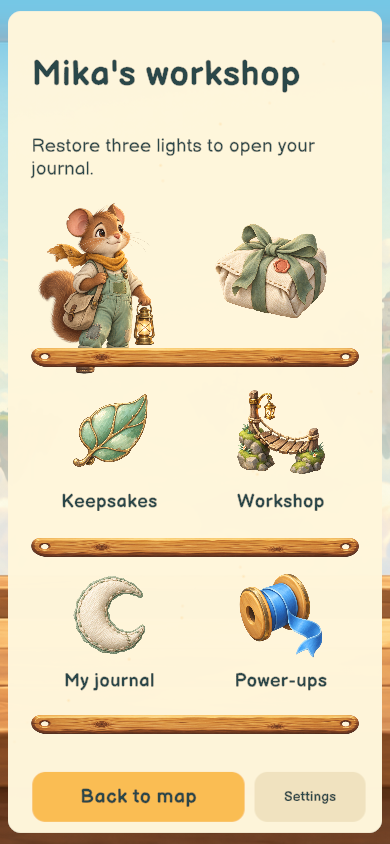
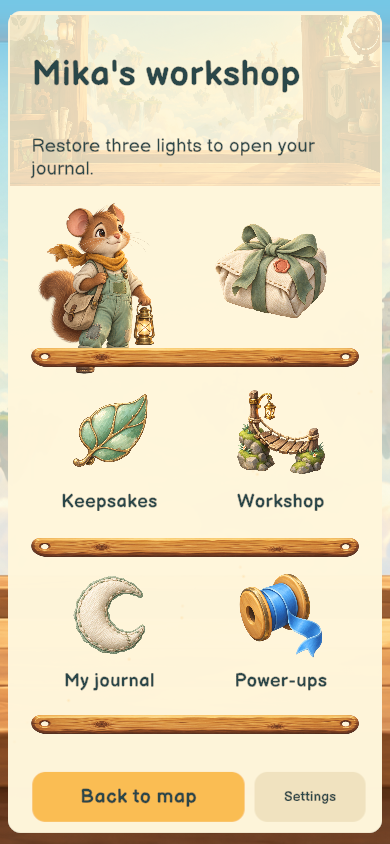
Add illustrated workshop headers to shared menus

Changed region(s): [[0.0, 0.0, 0.9846, 0.2464]]

diff --git a/CascadeUnity/Assets/_Cascade/Editor/Playable/PolishCapture.cs b/CascadeUnity/Assets/_Cascade/Editor/Playable/PolishCapture.cs
@@ -17,6 +17,7 @@ namespace Cascade.Editor.Playable
   static void Redraw(CascadeGame g)=>typeof(CascadeGame).GetMethod("DrawMenu",Flags).Invoke(g,null);
   public static void Run(){if(!EditorApplication.isPlaying||EditorUtility.scriptCompilationFailed||EditorApplication.isCompiling)throw new InvalidOperationException("Compiled Play Mode required");UnityEngine.Object.FindFirstObjectByType<CascadeGame>().StartCoroutine(Capture());}
   public static void FinishPass(){if(!EditorApplication.isPlaying||EditorUtility.scriptCompilationFailed||EditorApplication.isCompiling)throw new InvalidOperationException("Compiled Play Mode required");UnityEngine.Object.FindFirstObjectByType<CascadeGame>().StartCoroutine(FinishShots());}
+  public static void MenuHeaderCheck(){if(!EditorApplication.isPlaying||EditorUtility.scriptCompilationFailed||EditorApplication.isCompiling)throw new InvalidOperationException("Compiled Play Mode required");UnityEngine.Object.FindFirstObjectByType<CascadeGame>().StartCoroutine(HeaderShots());}
   public static void VerifyOneSwap()
   {
    var g=UnityEngine.Object.FindFirstObjectByType<CascadeGame>();Field(g,"persistenceReady",false);g.LoadNode("C13");g.ShowGame();g.SendMessage("OnApplicationFocus",true);g.Interaction.SetSuspended(false);
@@ -86,6 +87,7 @@ namespace Cascade.Editor.Playable
    }finally{scaler.enabled=false;camera.targetTexture=previous;scaler.enabled=true;RenderTexture.active=active;g.RefreshLayout();UnityEngine.Application.runInBackground=background;UnityEngine.Object.DestroyImmediate(pixels);rt.Release();UnityEngine.Object.DestroyImmediate(rt);}
   }
   static IEnumerator Shot(string name,int width=390,int height=844){yield return new WaitForSecondsRealtime(.18f);yield return PlayableCapture.CaptureSettled("Polish",name+".png",width,height);}
+  static IEnumerator HeaderShots(){var g=UnityEngine.Object.FindFirstObjectByType<CascadeGame>();Field(g,"persistenceReady",false);g.SetUiLocale("en");g.ShowSettings();yield return Shot("finish-settings");Screen(g,GameScreen.Pause);yield return Shot("finish-pause");g.ShowTravelBag();yield return Shot("finish-bag");Debug.Log("CASCADE illustrated menu header captured");}
   static IEnumerator FinishShots()
   {
    var g=UnityEngine.Object.FindFirstObjectByType<CascadeGame>();Field(g,"persistenceReady",false);g.Feedback.SoundEnabled=g.Feedback.MusicEnabled=false;g.ReducedMotion=false;g.SetUiLocale("en");

diff --git a/CascadeUnity/Assets/_Cascade/Presentation/CascadeGame.Flow.cs b/CascadeUnity/Assets/_Cascade/Presentation/CascadeGame.Flow.cs
@@ -206,6 +206,12 @@ namespace Cascade.Presentation
             foreach(Transform child in menuRoot){ child.gameObject.SetActive(false); Destroy(child.gameObject); }
             var wash=Rect("Warm paper",menuRoot,new Vector2(.018f,.012f),new Vector2(.982f,.988f));menuWash=Background(wash,new Color(1,.96f,.84f,.965f),true);menuWash.sprite=art.panel;menuWash.type=Image.Type.Sliced;
             if(CurrentScreen!=GameScreen.Home&&CurrentScreen!=GameScreen.Dialogue){
+                var windowTexture=Resources.Load<Texture2D>("CascadeArt/Craft/WorkshopRoom");
+                if(windowTexture!=null){
+                    var window=Rect("Painted workshop window",menuRoot,new Vector2(.025f,.78f),new Vector2(.975f,.982f)).gameObject.AddComponent<RawImage>();
+                    window.texture=windowTexture;window.uvRect=new Rect(0,.18f,1,.66f);window.raycastTarget=false;
+                    Background(Rect("Quiet header veil",menuRoot,new Vector2(.025f,.78f),new Vector2(.975f,.982f)),new Color(1,.96f,.84f,.69f),false);
+                }
                 var motes=Rect("Window light and drifting dust",menuRoot,new Vector2(.035f,.03f),new Vector2(.965f,.97f)).gameObject.AddComponent<WorldWeatherGraphic>();
                 motes.InitializeRegion(this,machine.LivingWorld.Zone);motes.color=new Color(1,.79f,.44f,.20f);
             }

diff --git a/TASKS.md b/TASKS.md
@@ -1,6 +1,6 @@
 # CASCADE — TASKS
 
-UI/material follow-up, 5 октября 2026: деревянные боковые рейки связывают доски и приёмник; формы получили лаковый блик от Lit-материалов, буквы — лёгкое волокно и рельефную тень, доски принимают мягкую тень от направленного света. Увеличен планер, карта получила читаемую метку текущего острова и ровный верхний бар, меню — тихую пыль, а пауза и настройки — Мику. Плашка уровня отделяет текст от опор; цель поднята над приёмником на узком экране. 7 прицельных кадров через Unity MCP: Reports/Polish/finish-*.png. Один focused swap: 1 атомарный ход, multiset сохранён, анимация закончилась Resting; Console 0 ошибок после перезапуска Play Mode. Реальные iPhone/Android, измерение FPS и человеческая оценка удовольствия не выполнялись; нового player build не делали по просьбе автора об экономии проверок.
+UI/material follow-up, 5 октября 2026: деревянные боковые рейки связывают доски и приёмник; формы получили лаковый блик от Lit-материалов, буквы — лёгкое волокно и рельефную тень, доски принимают мягкую тень от направленного света. Увеличен планер, карта получила читаемую метку текущего острова и ровный верхний бар, меню — иллюстрированный вид из мастерской и тихую пыль, а пауза и настройки — Мику. Плашка уровня отделяет текст от опор; цель поднята над приёмником на узком экране. 7 прицельных кадров через Unity MCP: Reports/Polish/finish-*.png; дополнительно повторно осмотрены три меню с иллюстрированной шапкой. Один focused swap: 1 атомарный ход, multiset сохранён, анимация закончилась Resting; Console 0 ошибок после перезапуска Play Mode. Реальные iPhone/Android, измерение FPS и человеческая оценка удовольствия не выполнялись; нового player build не делали по просьбе автора об экономии проверок.
 
 UI/motion polish: IMPLEMENTED + VERIFIED локально — единые меню, читаемые языки и счётчики, акцент действий, плавные канаты с объёмной оплёткой, сохранение веса доски, мягкая посадка/погода/переходы. 47 native stills +32 motion frames;15 distinct PlayMode cases имеют passing evidence, финальный affected run4/4 PASS (13×4 interruption paths). Первоначальные watchdog failures сохранены: измерен Editor1Hz, функциональный watchdog30s; это не performancePASS. Одна новая CASCADE-Polish.app:0errors/346 existing warnings. Mac locked; foreground player и physical devices NOTRUN. Reports/Polish/README.md.
 
